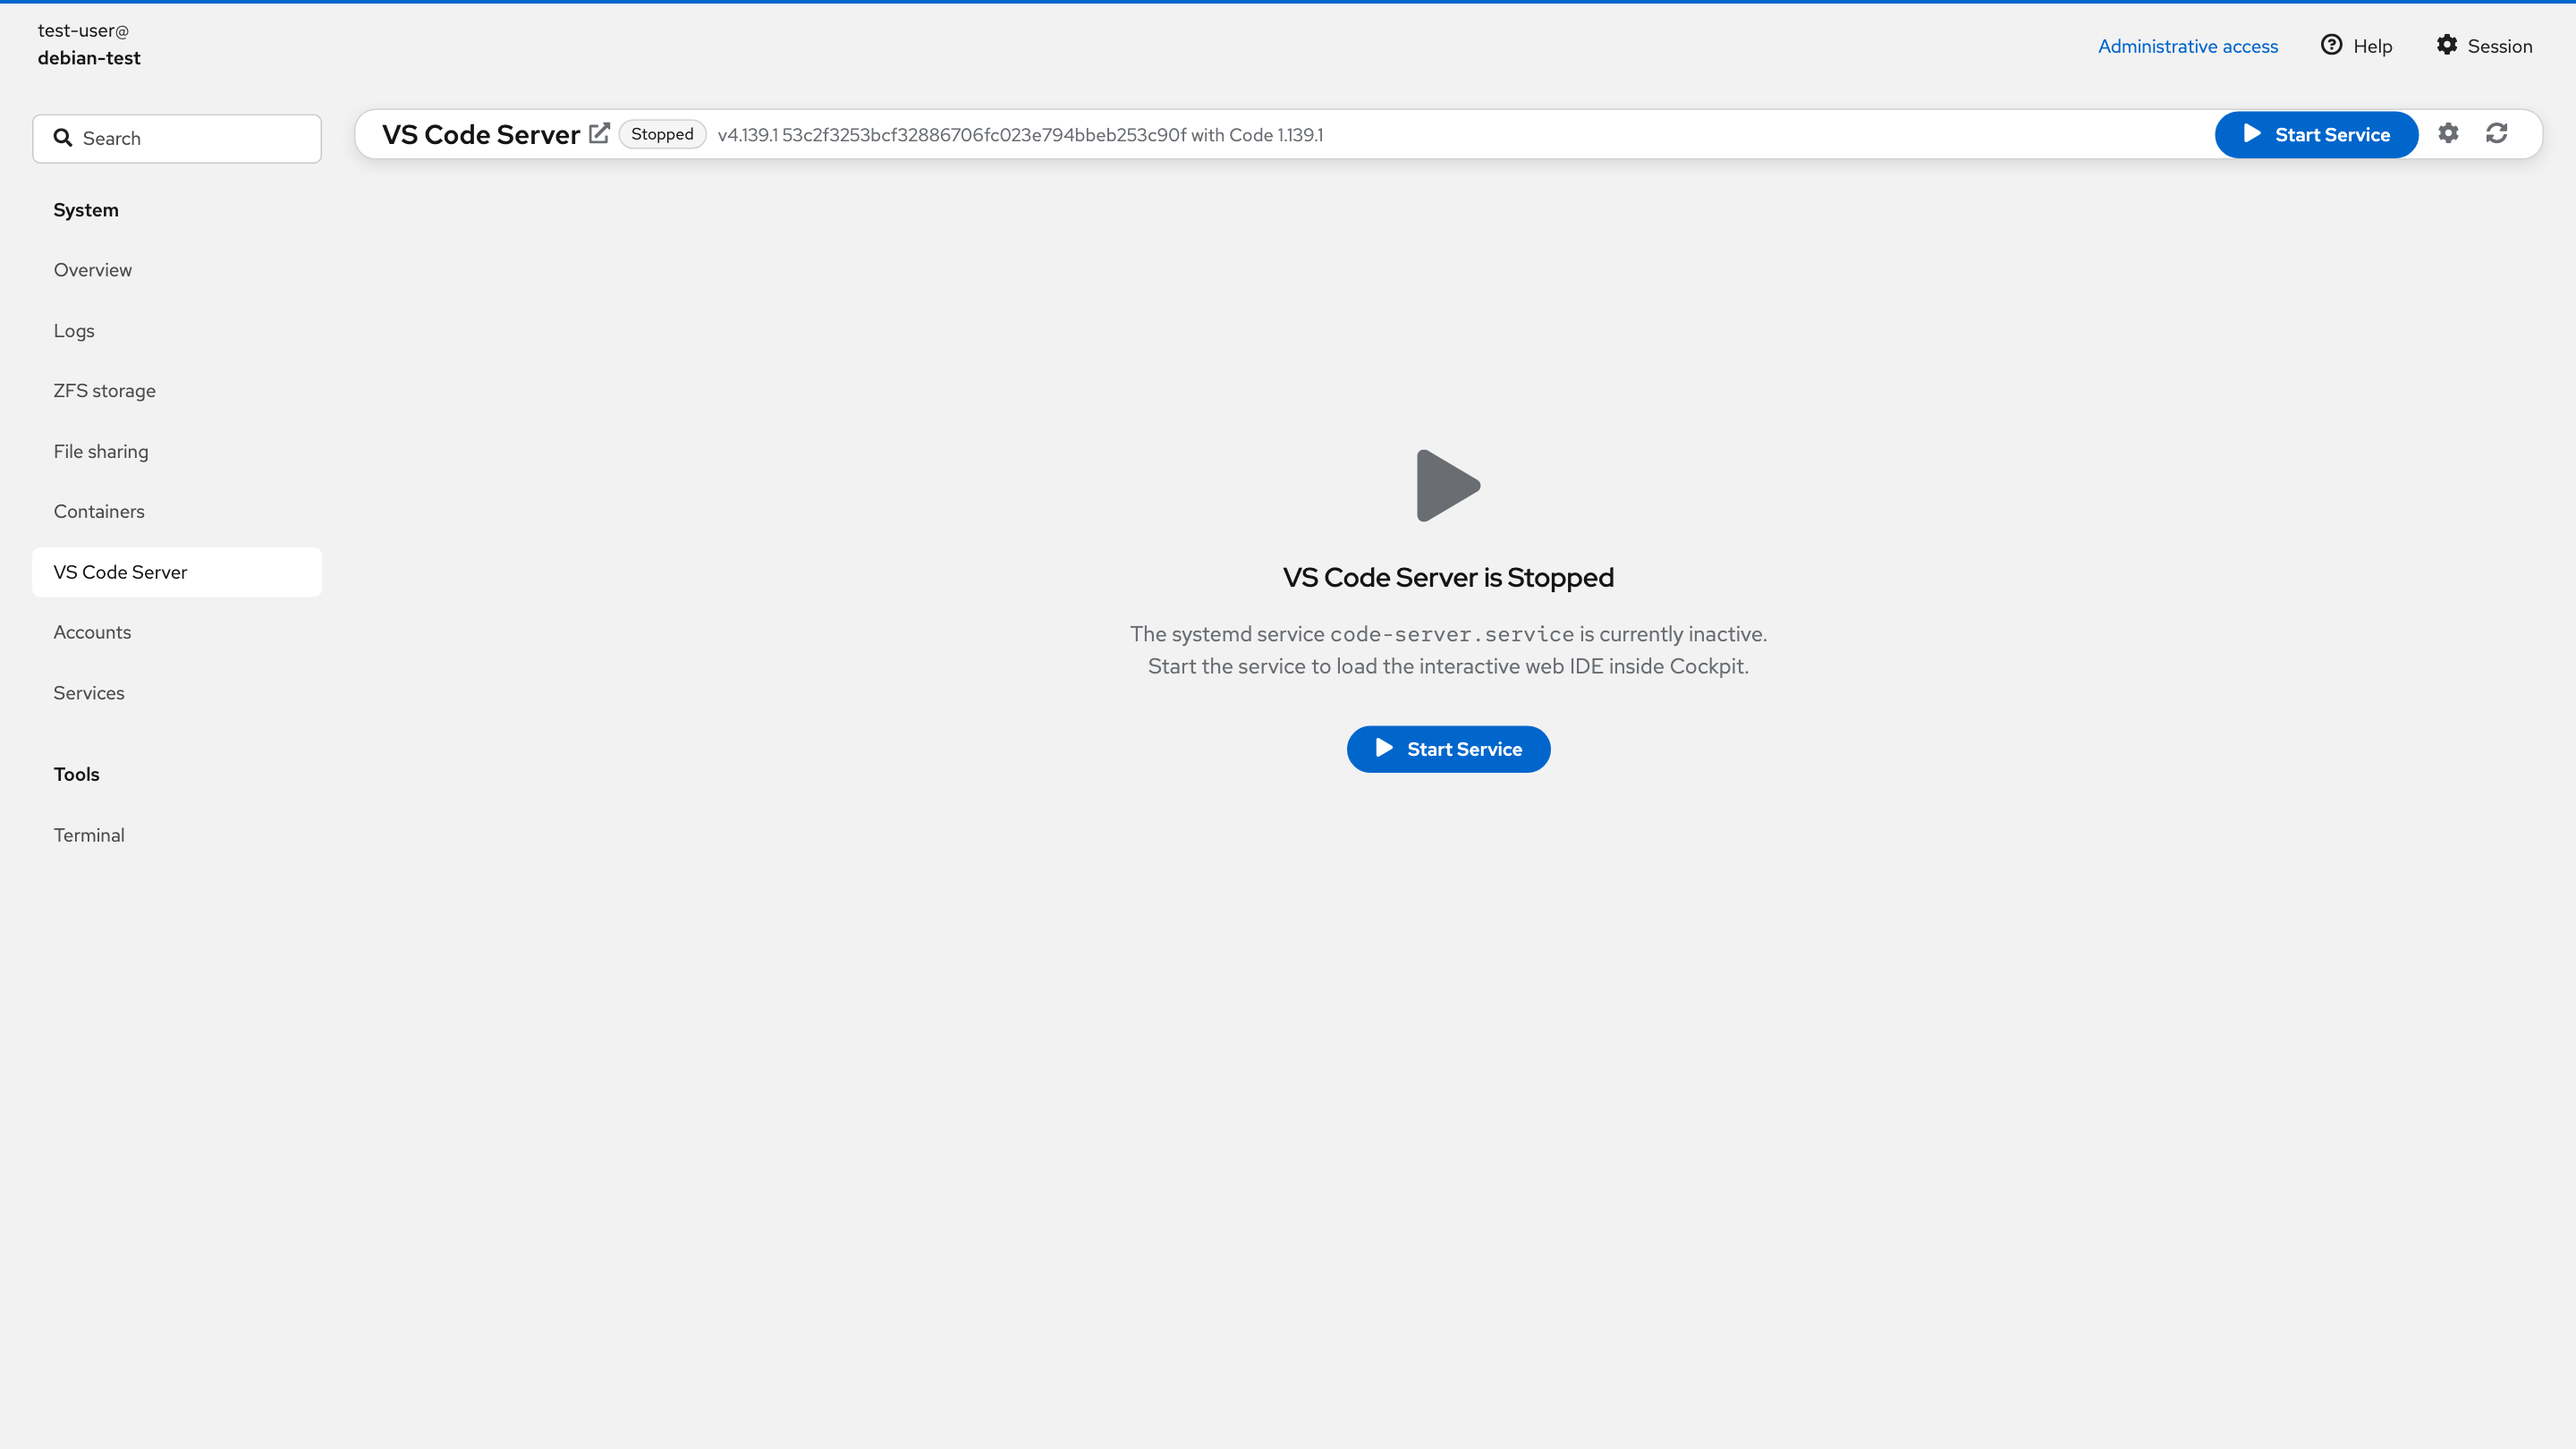
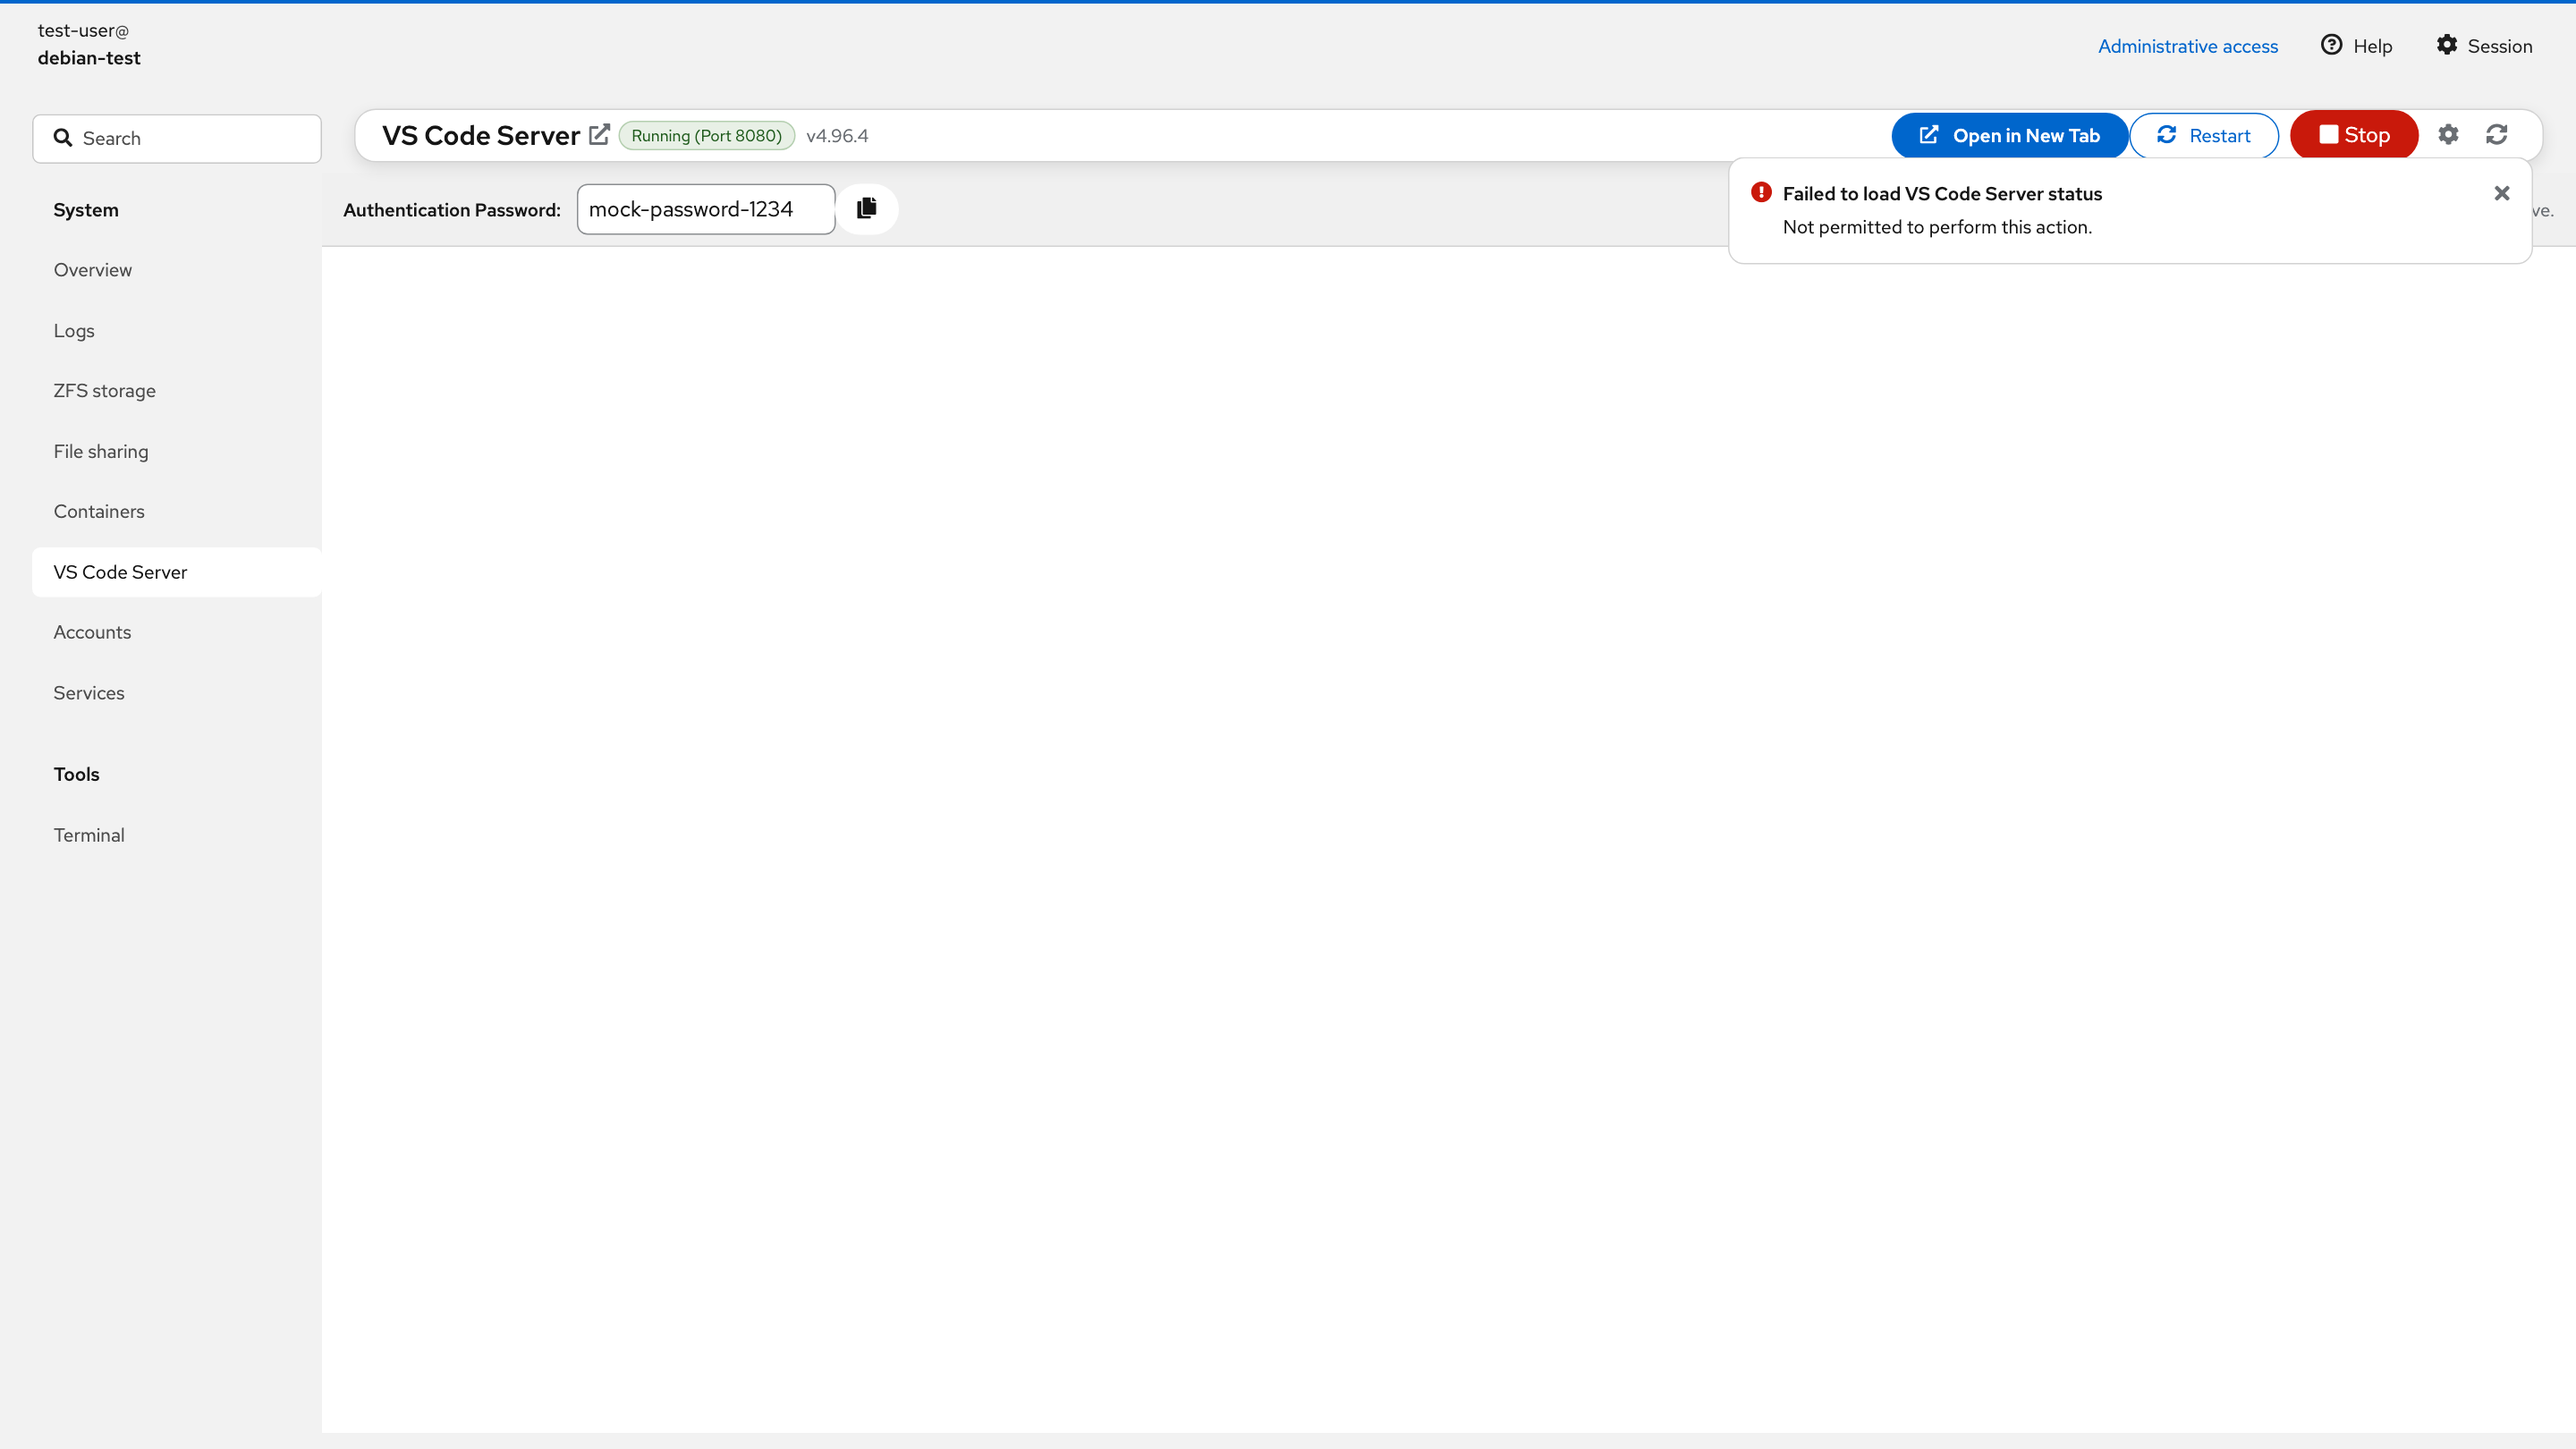
Resolve service user unit and satisfy E2E dependencies
Fix systemd unit resolution by targeting instantiated
code-server@<user>.service instead of missing uninstantiated unit.
Fetch upstream code-server packages in E2E setup before dpkg install.

diff --git a/plugins/code-server/src/api/codeServerClient.ts b/plugins/code-server/src/api/codeServerClient.ts
@@ -63,14 +63,25 @@ export class CodeServerClient {
     }
   }
 
+  private async getCurrentUser(): Promise<string | undefined> {
+    if (typeof cockpit !== "undefined" && typeof cockpit.user === "function") {
+      try {
+        const u = await cockpit.user();
+        return u?.name || u?.user;
+      } catch {}
+    }
+    return undefined;
+  }
+
   async getStatus(username?: string): Promise<CodeServerStatus> {
     if (!this.isCockpitAvailable()) {
       return DEFAULT_MOCK_STATUS;
     }
 
+    const user = username || (await this.getCurrentUser());
     const args = ["status"];
-    if (username) {
-      args.push("--user", username);
+    if (user) {
+      args.push("--user", user);
     }
 
     const res = await this.executeHelper(args, "require");
@@ -85,9 +96,10 @@ export class CodeServerClient {
       return { status: "ok", message: `Mock service ${verb} succeeded` };
     }
 
+    const user = username || (await this.getCurrentUser());
     const args = ["service", verb];
-    if (username) {
-      args.push("--user", username);
+    if (user) {
+      args.push("--user", user);
     }
 
     return await this.executeHelper(args);
@@ -98,9 +110,10 @@ export class CodeServerClient {
       return { status: "ok", message: "Mock config saved" };
     }
 
+    const user = username || (await this.getCurrentUser());
     const args = ["save_config", "--data", JSON.stringify(config)];
-    if (username) {
-      args.push("--user", username);
+    if (user) {
+      args.push("--user", user);
     }
 
     return await this.executeHelper(args);
@@ -111,9 +124,10 @@ export class CodeServerClient {
       return { status: "ok", message: "Mock install complete" };
     }
 
+    const user = username || (await this.getCurrentUser());
     const args = ["install"];
-    if (username) {
-      args.push("--user", username);
+    if (user) {
+      args.push("--user", user);
     }
 
     return await this.executeHelper(args);

diff --git a/plugins/code-server/backend/service_manager.py b/plugins/code-server/backend/service_manager.py
@@ -44,10 +44,33 @@ def get_binary_info() -> Dict[str, Any]:
     }
 
 
-def get_service_unit_name(username: Optional[str] = None) -> str:
+def resolve_username(username: Optional[str] = None) -> str:
     if username and username != "root":
-        return f"code-server@{username}.service"
-    return "code-server.service"
+        return username
+    sudo_user = os.environ.get("SUDO_USER")
+    if sudo_user and sudo_user != "root":
+        return sudo_user
+    logname = os.environ.get("LOGNAME") or os.environ.get("USER")
+    if logname and logname != "root":
+        return logname
+    try:
+        with open("/etc/passwd", "r") as f:
+            for line in f:
+                parts = line.strip().split(":")
+                if len(parts) >= 3 and parts[2].isdigit():
+                    uid = int(parts[2])
+                    if 1000 <= uid < 65534:
+                        return parts[0]
+    except Exception:
+        pass
+    return username or "root"
+
+
+def get_service_unit_name(username: Optional[str] = None) -> str:
+    user = resolve_username(username)
+    if user and user != "root":
+        return f"code-server@{user}.service"
+    return "code-server@root.service"
 
 
 def get_service_status(username: Optional[str] = None) -> Dict[str, Any]:

diff --git a/plugins/code-server/backend/config_manager.py b/plugins/code-server/backend/config_manager.py
@@ -38,9 +38,10 @@ class CodeServerConfig:
 
 
 def get_user_config_path(username: Optional[str] = None) -> str:
-    if username:
+    user = username or os.environ.get("SUDO_USER") or os.environ.get("LOGNAME") or os.environ.get("USER")
+    if user and user != "root":
         try:
-            pw = pwd.getpwnam(username)
+            pw = pwd.getpwnam(user)
             return os.path.join(pw.pw_dir, ".config", "code-server", "config.yaml")
         except KeyError:
             pass
